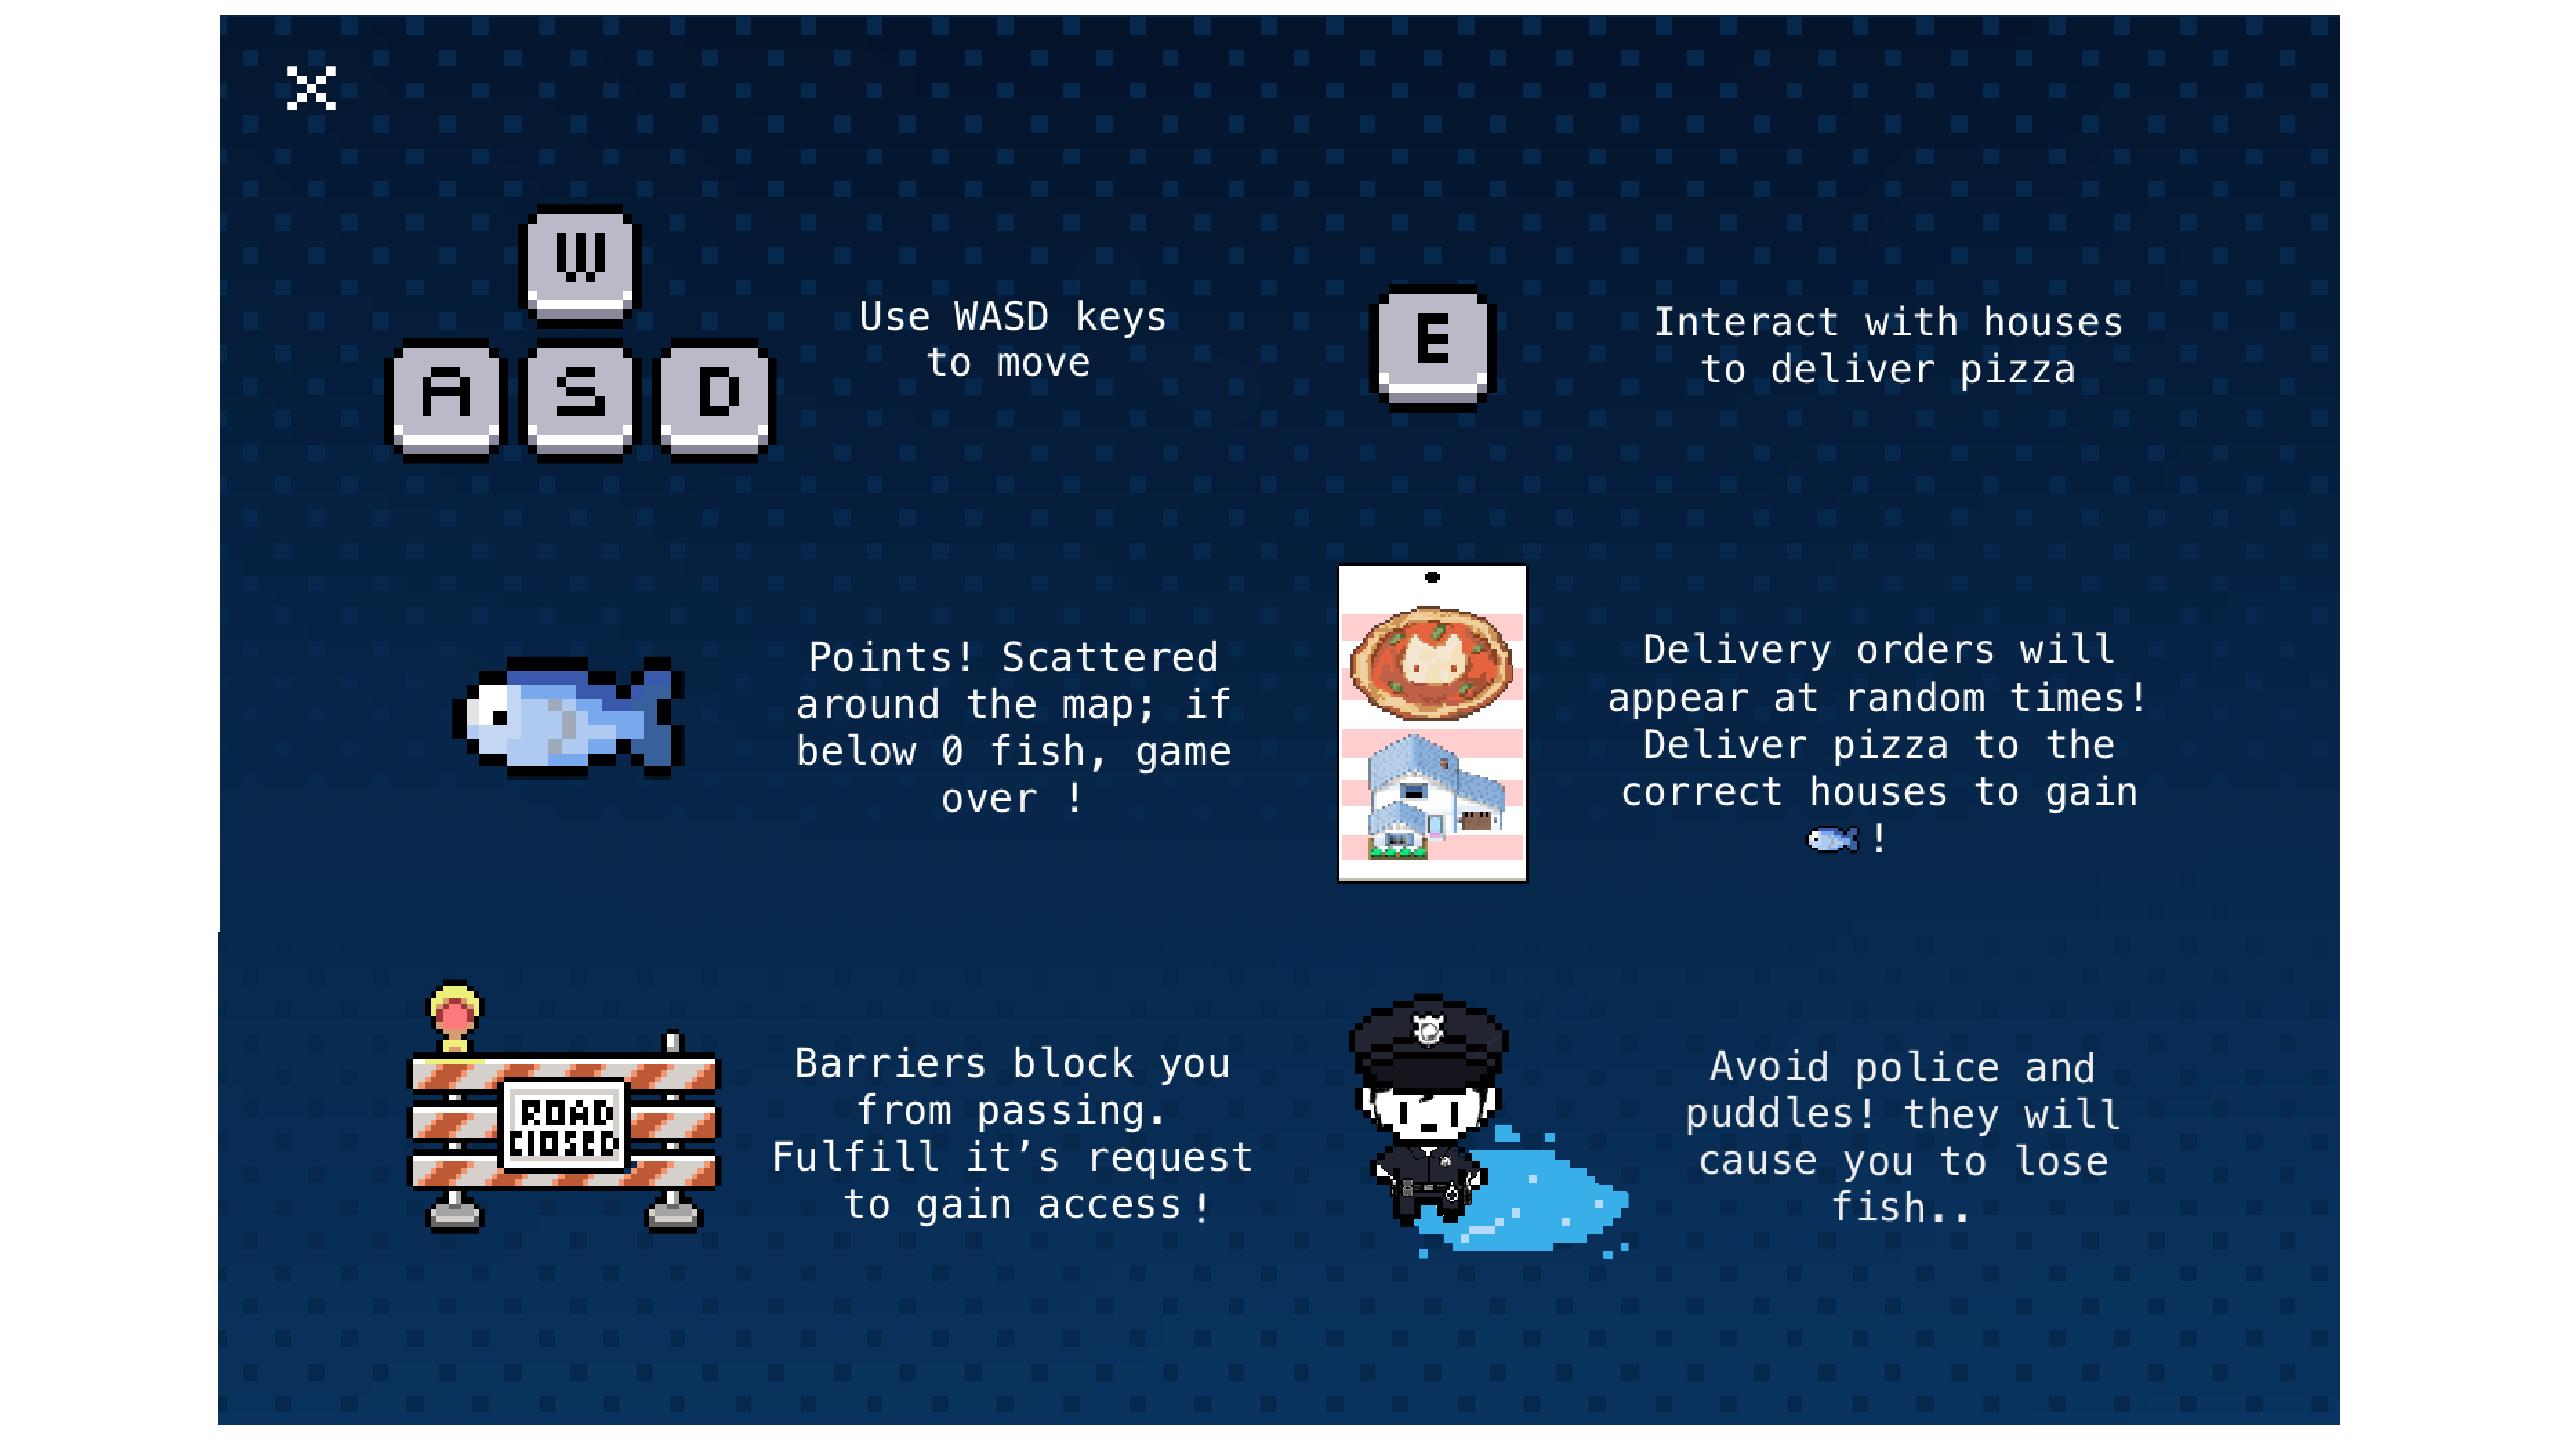
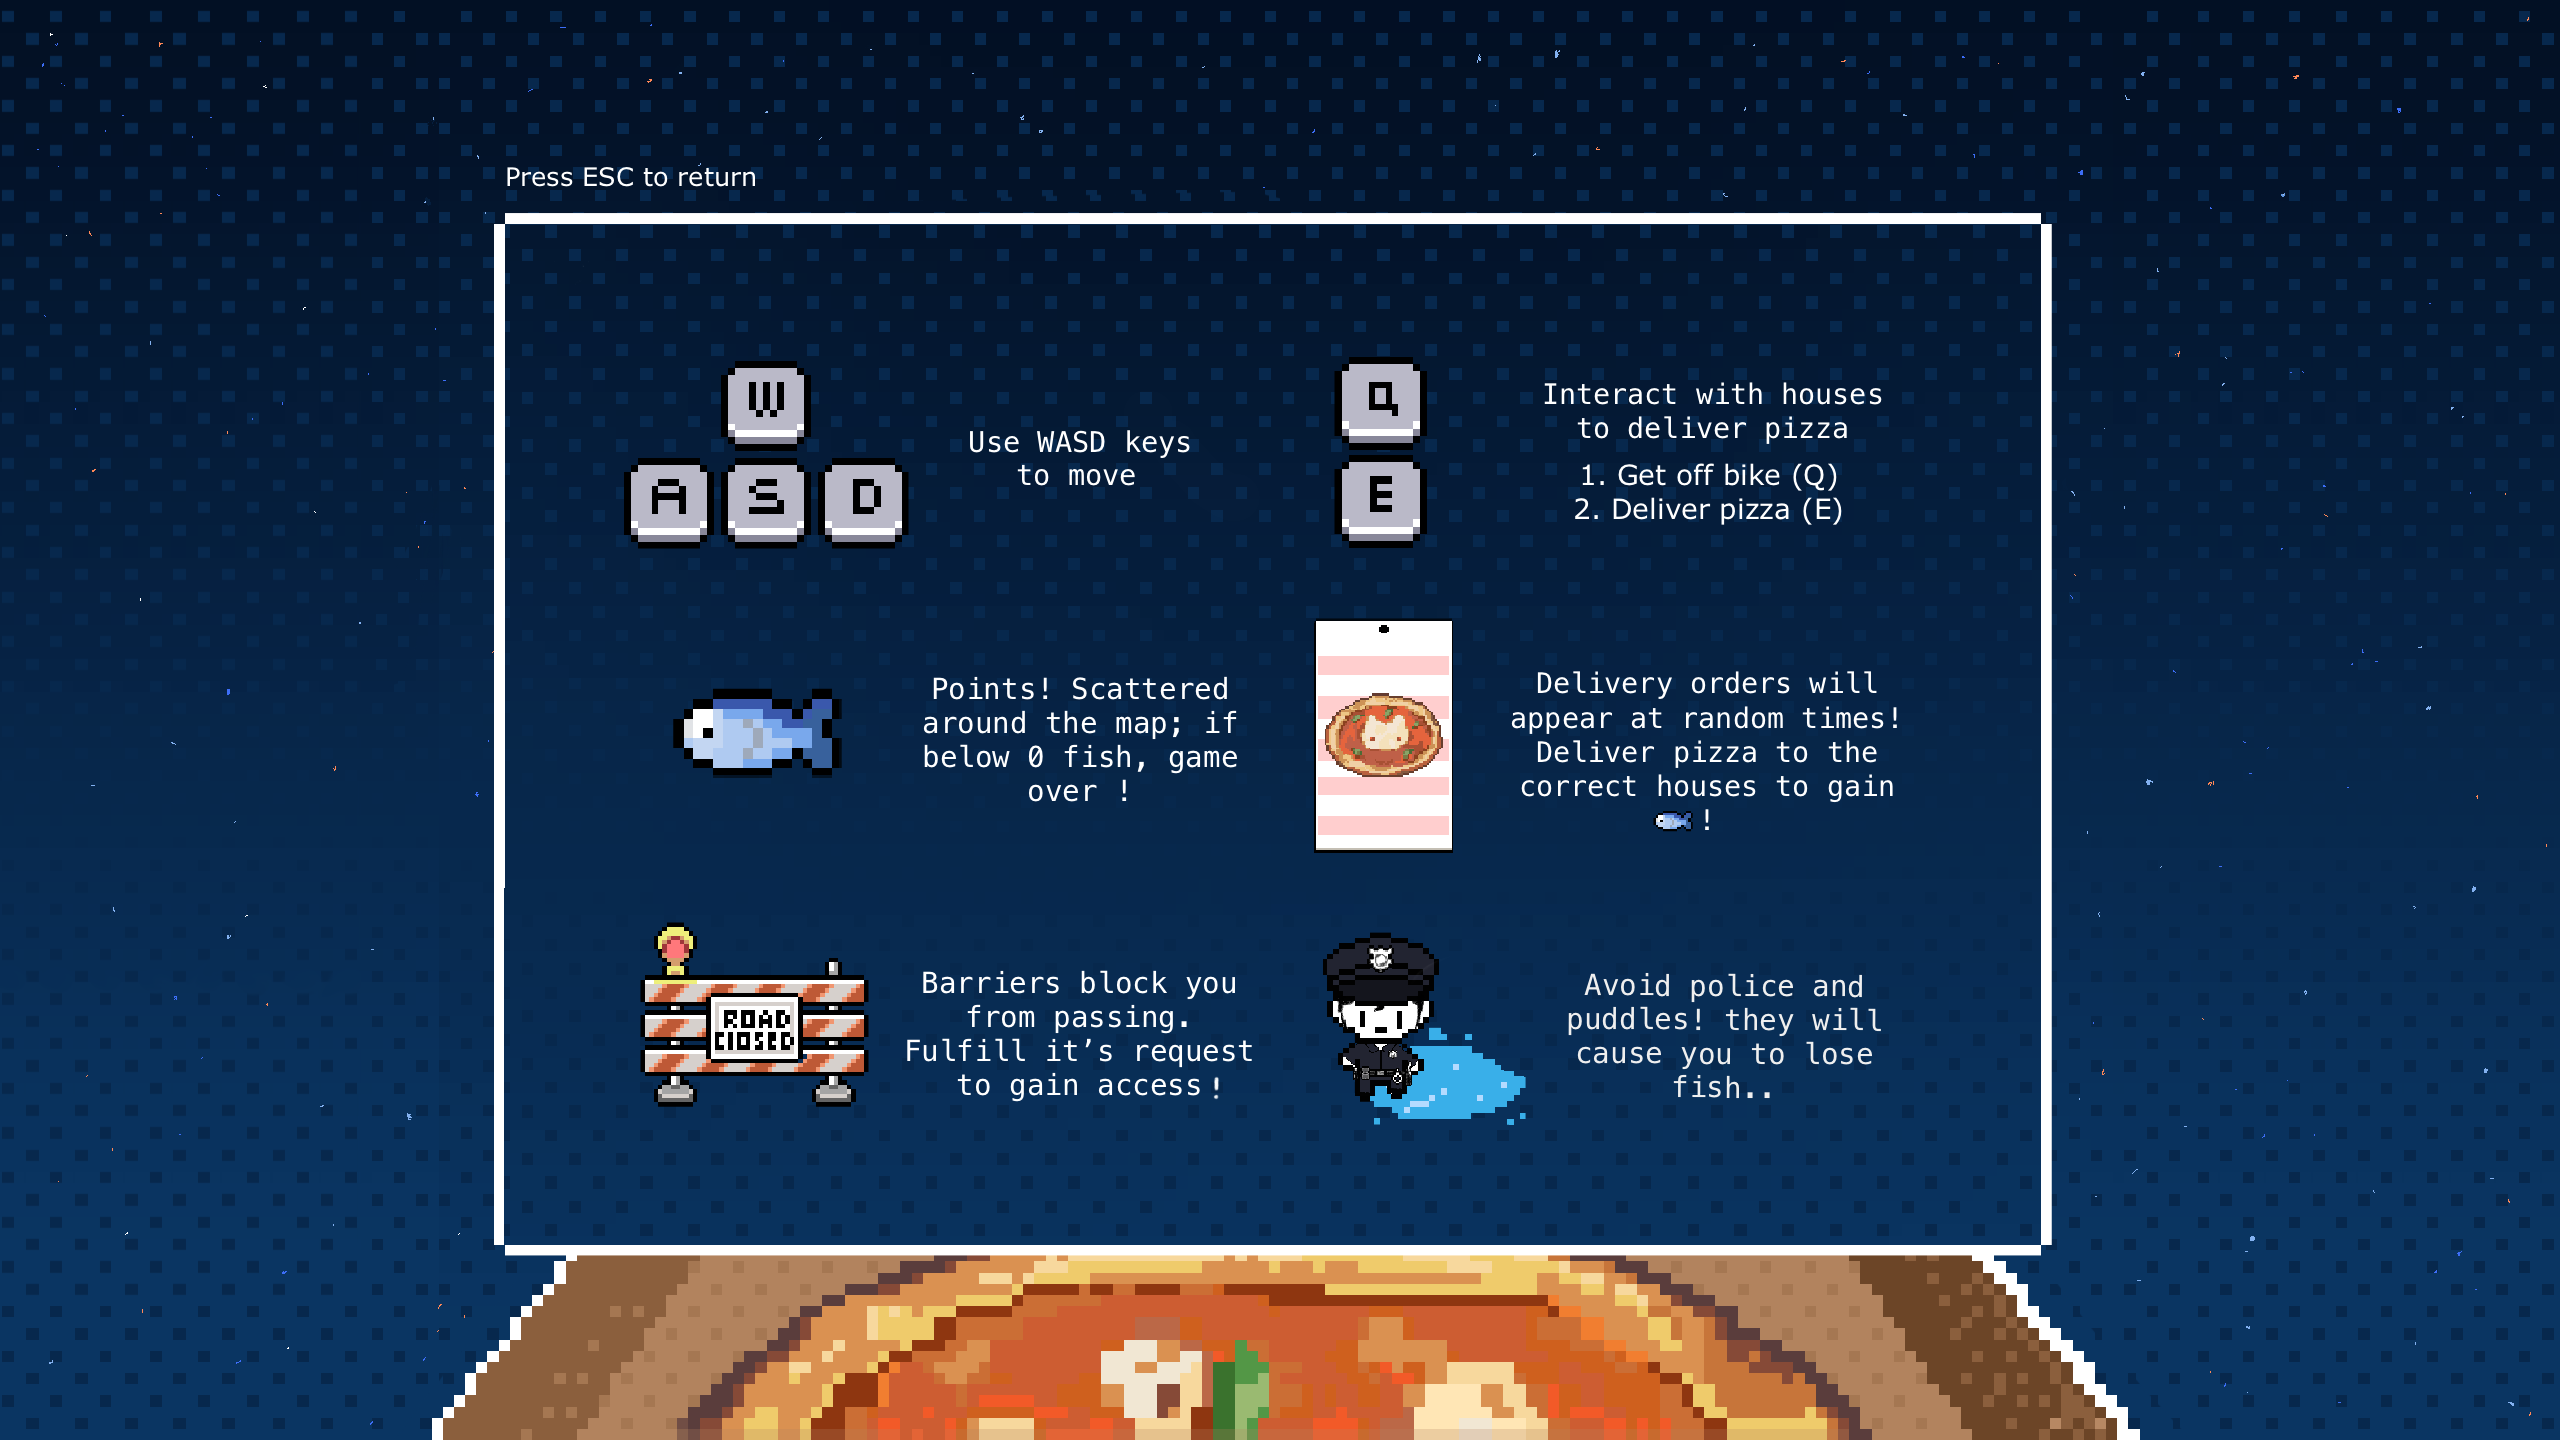
deleted X in instruction page and updated instructions

diff --git a/src/main/java/ca/sfu/spring2026team15/InstructionsScreen.java b/src/main/java/ca/sfu/spring2026team15/InstructionsScreen.java
@@ -17,9 +17,6 @@ public class InstructionsScreen implements Screen {
     private ExtendViewport viewport;
     private Texture background;
 
-    // X (close) button baked into top-left of instructions.png
-    private static final float CLOSE_X1 = 0f,  CLOSE_X2 = 200f;
-    private static final float CLOSE_Y1 = 660f, CLOSE_Y2 = 720f;
 
     public InstructionsScreen(Main game) {
         this.game = game;
@@ -43,12 +40,6 @@ public class InstructionsScreen implements Screen {
 
         if (Gdx.input.isKeyJustPressed(Input.Keys.ESCAPE)) {
             goBack();
-        } else if (Gdx.input.justTouched()) {
-            Vector2 touch = viewport.unproject(new Vector2(Gdx.input.getX(), Gdx.input.getY()));
-            if (touch.x >= CLOSE_X1 && touch.x <= CLOSE_X2 &&
-                    touch.y >= CLOSE_Y1 && touch.y <= CLOSE_Y2) {
-                goBack();
-            }
         }
     }
 
